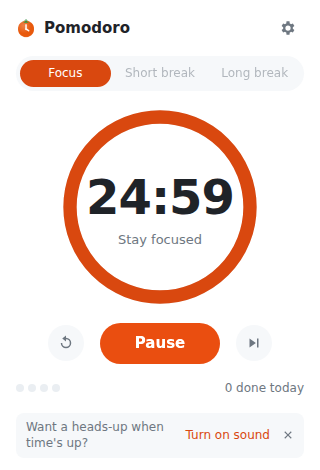
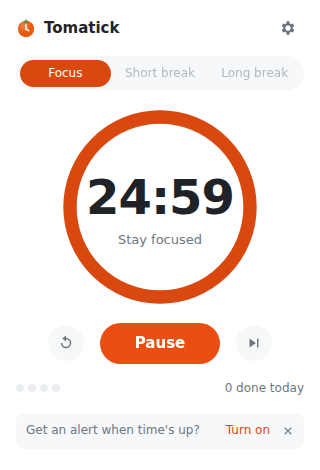
Rename the extension to Tomatick
Store name "Tomatick: Pomodoro Focus Timer"; popup header, toolbar
titles, docs, package name, and the release zip follow.

Claude-Session: https://claude.ai/code/session_01BXZTomxBgMmM87byQWZcuY

Changed region(s): [[0.0625, 0.8936, 0.8438, 0.9532], [0.125, 0.0298, 0.4062, 0.0894], [0.875, 0.8936, 0.9062, 0.9532]]

diff --git a/src/background/background.ts b/src/background/background.ts
@@ -68,13 +68,13 @@ async function updateBadge(state: TimerState, justFinished = false): Promise<voi
     await chrome.action.setBadgeBackgroundColor({ color: BADGE_COLORS[state.phase] });
     await chrome.action.setBadgeText({ text: '✓' });
     await chrome.action.setTitle({
-      title: `Pomodoro: time for your ${PHASE_LABELS[state.phase].toLowerCase()}`,
+      title: `Tomatick: time for your ${PHASE_LABELS[state.phase].toLowerCase()}`,
     });
     return;
   }
   if (state.status === 'idle') {
     await chrome.action.setBadgeText({ text: '' });
-    await chrome.action.setTitle({ title: `Pomodoro: ${PHASE_LABELS[state.phase]} ready` });
+    await chrome.action.setTitle({ title: `Tomatick: ${PHASE_LABELS[state.phase]} ready` });
     return;
   }
   const minutesLeft = Math.ceil(remainingMs(state, Date.now()) / 60_000);
@@ -84,7 +84,7 @@ async function updateBadge(state: TimerState, justFinished = false): Promise<voi
   await chrome.action.setBadgeText({ text: `${minutesLeft}m` });
   const verb = state.status === 'paused' ? 'paused' : 'running';
   await chrome.action.setTitle({
-    title: `Pomodoro: ${PHASE_LABELS[state.phase]} ${verb}, ${minutesLeft} min left`,
+    title: `Tomatick: ${PHASE_LABELS[state.phase]} ${verb}, ${minutesLeft} min left`,
   });
 }
 

diff --git a/public/options.html b/public/options.html
@@ -3,7 +3,7 @@
 <html lang="en">
   <head>
     <meta charset="utf-8" />
-    <title>Pomodoro settings</title>
+    <title>Tomatick settings</title>
     <meta http-equiv="refresh" content="0; url=index.html#settings" />
   </head>
   <body></body>

diff --git a/src/popup/app/app.html b/src/popup/app/app.html
@@ -8,7 +8,7 @@
     <h1>Settings</h1>
   } @else {
     <img src="icons/icon-32.png" width="20" height="20" alt="" />
-    <h1>Pomodoro</h1>
+    <h1>Tomatick</h1>
     <button
       class="icon-btn ghost"
       (click)="show('settings')"

diff --git a/public/offscreen.html b/public/offscreen.html
@@ -4,7 +4,7 @@
 <html lang="en">
   <head>
     <meta charset="utf-8" />
-    <title>Pomodoro sound player</title>
+    <title>Tomatick sound player</title>
   </head>
   <body>
     <script src="offscreen.js" type="module"></script>

diff --git a/src/popup/index.html b/src/popup/index.html
@@ -2,7 +2,7 @@
 <html lang="en">
   <head>
     <meta charset="utf-8" />
-    <title>Pomodoro</title>
+    <title>Tomatick</title>
     <base href="/" />
   </head>
   <body>

diff --git a/README.md b/README.md
@@ -1,6 +1,6 @@
-# Pomodoro Focus Timer
+# Tomatick
 
-A simple, customizable Pomodoro timer for Chrome. It defaults to the classic
+**Tomatick: Pomodoro Focus Timer** is a simple, customizable Pomodoro timer for Chrome. It defaults to the classic
 technique: 25-minute focus sessions, 5-minute short breaks, and a 15-minute
 long break after every 4 sessions. All of that is adjustable. Sound and
 notification alerts are available but off until you turn them on.
@@ -30,7 +30,7 @@ npm install
 npm run build     # builds the extension into dist/
 npm test          # unit and component tests (Vitest)
 npm run watch     # rebuilds on change
-npm run package   # builds and writes pomodoro-focus-timer-<version>.zip for the Web Store
+npm run package   # builds and writes tomatick-<version>.zip for the Web Store
 ```
 
 ### Load it in Chrome
@@ -38,7 +38,7 @@ npm run package   # builds and writes pomodoro-focus-timer-<version>.zip for the
 1. Open `chrome://extensions`.
 2. Turn on **Developer mode** (top right).
 3. Click **Load unpacked** and choose the `dist/` folder.
-4. Pin the tomato icon from the puzzle-piece menu so the badge is visible.
+4. Pin the Tomatick icon from the puzzle-piece menu so the badge is visible.
 
 After a rebuild, click the reload arrow on the extension's card. The popup
 picks up changes the next time you open it, but the background worker only
@@ -50,17 +50,17 @@ Think of the background service worker as a kitchen timer sitting on the
 counter, and the popup as you glancing at it. Closing the popup doesn't stop
 the timer. Chrome also "puts the counter away" (shuts the worker down) when
 it's idle, so the timer never counts down in memory. Instead it writes down
-*when* the timer ends and asks Chrome to wake it at that moment.
+_when_ the timer ends and asks Chrome to wake it at that moment.
 
-| Path | What it is |
-| --- | --- |
-| `src/shared/timer.ts` | The pure timer state machine (start, pause, reset, next phase). No `chrome.*` calls, so it's easy to test. |
+| Path                           | What it is                                                                                                                                                                                                                               |
+| ------------------------------ | ---------------------------------------------------------------------------------------------------------------------------------------------------------------------------------------------------------------------------------------- |
+| `src/shared/timer.ts`          | The pure timer state machine (start, pause, reset, next phase). No `chrome.*` calls, so it's easy to test.                                                                                                                               |
 | `src/background/background.ts` | The service worker. Owns the timer state in `chrome.storage.local`, schedules a `chrome.alarms` alarm for the end time, updates the badge, and fires the alerts. Catches up on browser startup if a timer ended while Chrome was closed. |
-| `src/offscreen/offscreen.ts` | Service workers can't play audio, so the worker opens a hidden [offscreen document](https://developer.chrome.com/docs/extensions/reference/api/offscreen) to play the alert sound. |
-| `src/shared/sounds.ts` | The alert sounds, synthesized with the Web Audio API (no audio files). |
-| `src/popup/` | The Angular popup. `PomodoroStore` mirrors storage into signals and sends commands to the worker; `TimerView` and `SettingsView` are the two screens. |
-| `public/` | `manifest.json`, icons, and the small static pages, copied into `dist/` as-is. |
-| `scripts/build.mjs` | Runs `ng build` for the popup, then esbuild for the worker and offscreen script. |
+| `src/offscreen/offscreen.ts`   | Service workers can't play audio, so the worker opens a hidden [offscreen document](https://developer.chrome.com/docs/extensions/reference/api/offscreen) to play the alert sound.                                                       |
+| `src/shared/sounds.ts`         | The alert sounds, synthesized with the Web Audio API (no audio files).                                                                                                                                                                   |
+| `src/popup/`                   | The Angular popup. `PomodoroStore` mirrors storage into signals and sends commands to the worker; `TimerView` and `SettingsView` are the two screens.                                                                                    |
+| `public/`                      | `manifest.json`, icons, and the small static pages, copied into `dist/` as-is.                                                                                                                                                           |
+| `scripts/build.mjs`            | Runs `ng build` for the popup, then esbuild for the worker and offscreen script.                                                                                                                                                         |
 
 Settings are saved to `chrome.storage.sync`, so they follow your Chrome profile.
 

diff --git a/PRIVACY.md b/PRIVACY.md
@@ -1,6 +1,6 @@
-# Privacy policy: Pomodoro Focus Timer
+# Privacy policy: Tomatick (Pomodoro Focus Timer)
 
-Pomodoro Focus Timer does not collect, transmit, sell, or share any personal
+Tomatick does not collect, transmit, sell, or share any personal
 data.
 
 - The extension makes no network requests.
